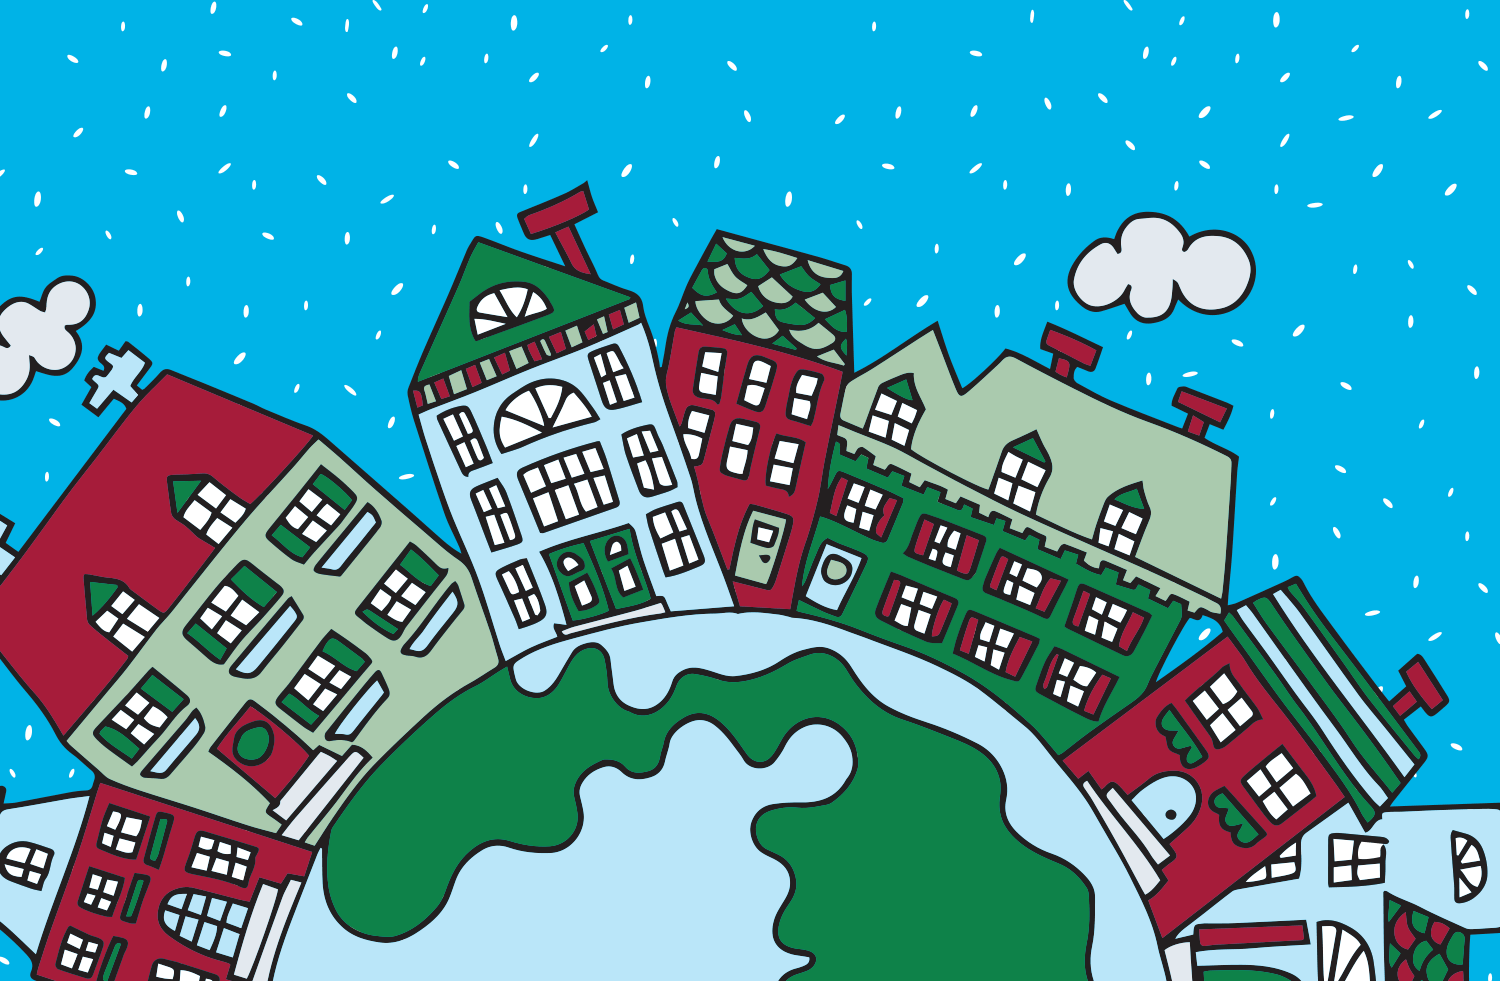
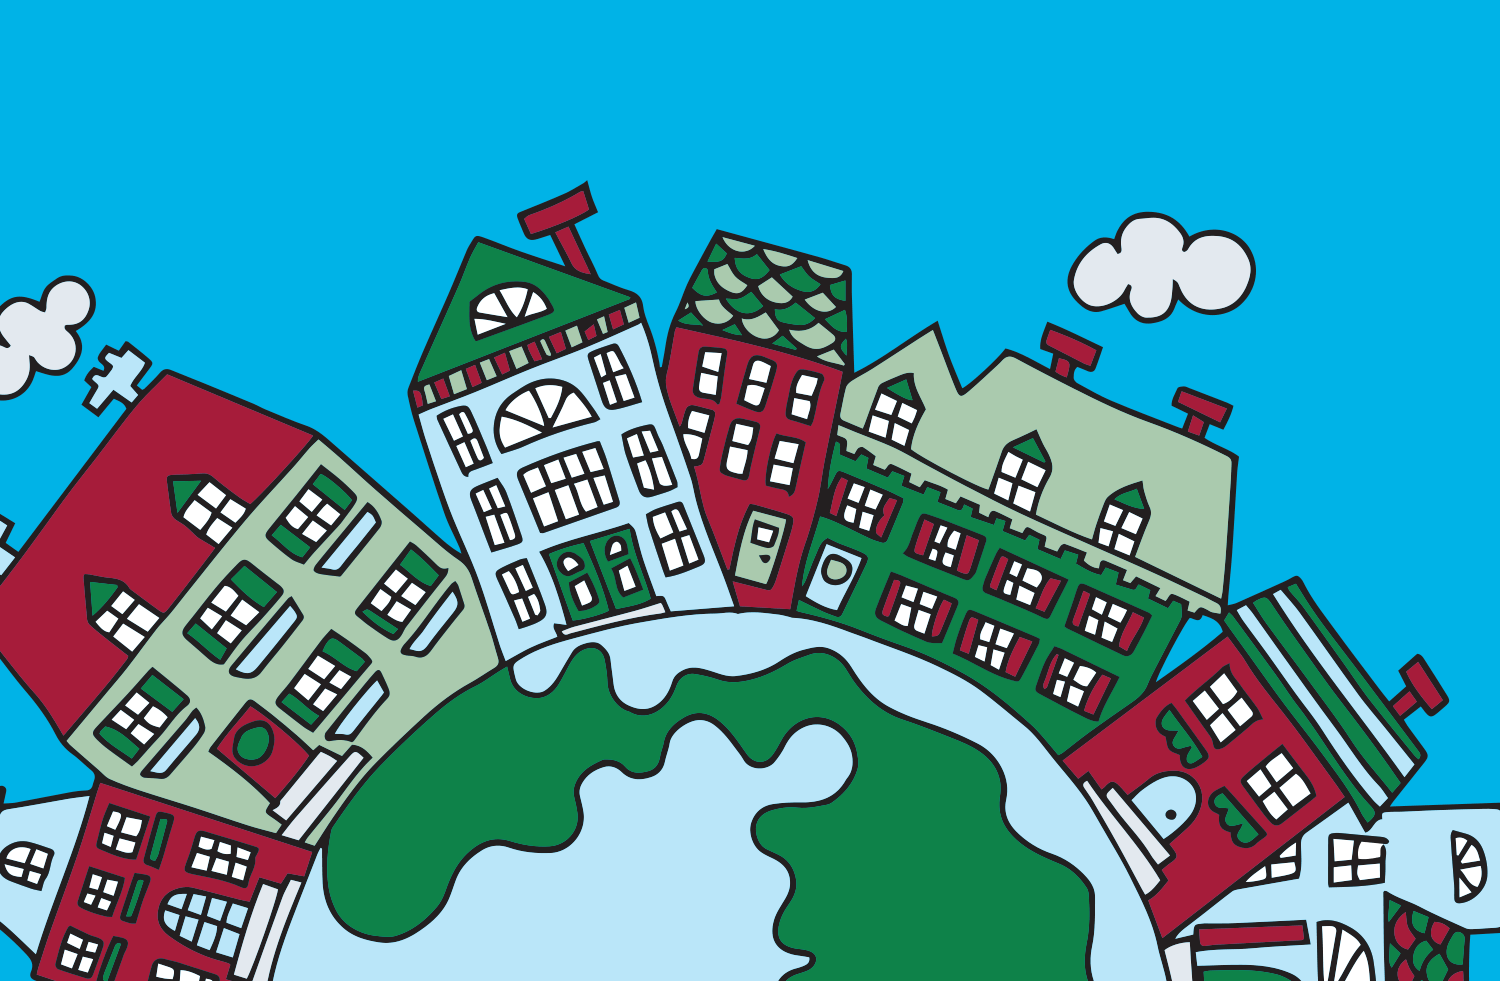
animated snow, bitches! [#RPTREE-20]

diff --git a/src/sass/_banner.scss b/src/sass/_banner.scss
@@ -13,4 +13,36 @@
 		margin-bottom: 0.5em;
 		text-transform: uppercase;
 	}
+
+	/** Animated snow. Because of course. */
+
+	&__graphic {
+		position: relative;
+
+		.snow {
+			background: {
+				image: url("../images/snow.png"), url("../images/snow.png");
+				position: 0 0, 50% 50%;
+				repeat: repeat, repeat;
+			}
+			bottom: 0;
+			left: 0;
+			position: absolute;
+			right: 0;
+			top: 0;
+			transform: translateZ(0); // Enable hardware acceleration for better performance
+
+			animation: snow 40s linear infinite;
+		}
+	}
+}
+
+@keyframes snow {
+	0% {
+		background-position: 0 0, 0 0;
+	}
+
+	100% {
+		background-position: 1000px 1000px, 0 250px;
+	}
 }

diff --git a/src/html/index.html b/src/html/index.html
@@ -36,6 +36,8 @@
 	<section id="banner" class="banner">
 		<div class="banner__graphic">
 			<img src="images/banner-small.png">
+
+			<div class="snow"></div>
 		</div>
 
 		<div class="banner__content">
